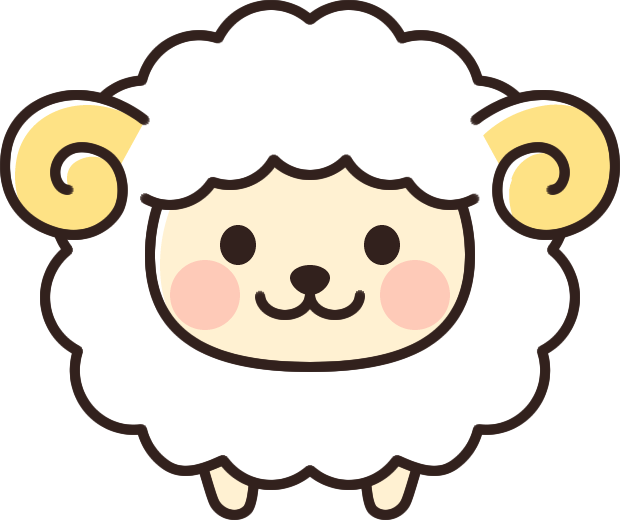
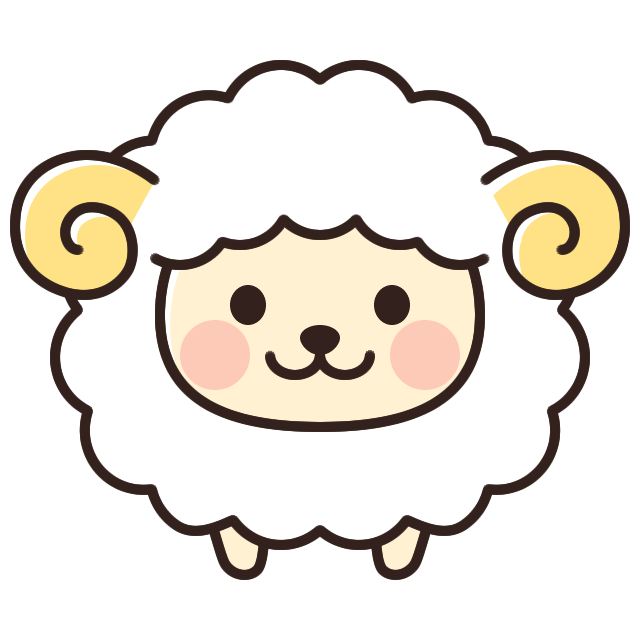
commit

diff --git a/dist/index.html b/dist/index.html
@@ -5,9 +5,15 @@
     <meta name="viewport" content="width=device-width, initial-scale=1.0" />
     <meta name="apple-mobile-web-app-capable" content="yes" />
     <meta name="apple-mobile-web-app-title" content="ひつじノート" />
-    <link rel="icon" href="/hitsuji.png" />
+    <link rel="apple-touch-icon" sizes="180x180" href="/apple-touch-icon.png">
+    <link rel="icon" type="image/png" sizes="32x32" href="/favicon-32x32.png">
+    <link rel="icon" type="image/png" sizes="16x16" href="/favicon-16x16.png">
+    <link rel="manifest" href="/site.webmanifest">
+    <link rel="mask-icon" href="/safari-pinned-tab.svg" color="#8a5444">
+    <meta name="msapplication-TileColor" content="#fff9f3">
+    <meta name="theme-color" content="#ffffff">
     <title>ひつじノート</title>
-    <script type="module" crossorigin src="/assets/index.6567d348.js"></script>
+    <script type="module" crossorigin src="/assets/index.e12d3315.js"></script>
     <link rel="modulepreload" href="/assets/vendor.70cb7161.js">
     <link rel="stylesheet" href="/assets/index.b2538bd7.css">
   </head>

diff --git a/index.html b/index.html
@@ -5,7 +5,13 @@
     <meta name="viewport" content="width=device-width, initial-scale=1.0" />
     <meta name="apple-mobile-web-app-capable" content="yes" />
     <meta name="apple-mobile-web-app-title" content="ひつじノート" />
-    <link rel="icon" href="/hitsuji.png" />
+    <link rel="apple-touch-icon" sizes="180x180" href="/apple-touch-icon.png">
+    <link rel="icon" type="image/png" sizes="32x32" href="/favicon-32x32.png">
+    <link rel="icon" type="image/png" sizes="16x16" href="/favicon-16x16.png">
+    <link rel="manifest" href="/site.webmanifest">
+    <link rel="mask-icon" href="/safari-pinned-tab.svg" color="#8a5444">
+    <meta name="msapplication-TileColor" content="#fff9f3">
+    <meta name="theme-color" content="#ffffff">
     <title>ひつじノート</title>
   </head>
   <body>

diff --git a/src/components/SheepEditor.vue b/src/components/SheepEditor.vue
@@ -137,7 +137,8 @@ function removeTalk(talk: Talk): void {
     <label class="form-label">どんな人?</label>
     <textarea class="form-control" v-model="data.note"></textarea>
   </div>
-  <div class="form-label mt-2 d-flex">
+  <button type="button" class="btn w-100 mb-2" @click="saveSheep">保存</button>
+  <div class="form-label d-flex">
     <label class="me-auto" style="line-height:40px">訪問履歴</label>
     <button type="button" class="btn" @click="addTalk">追加</button>
   </div>
